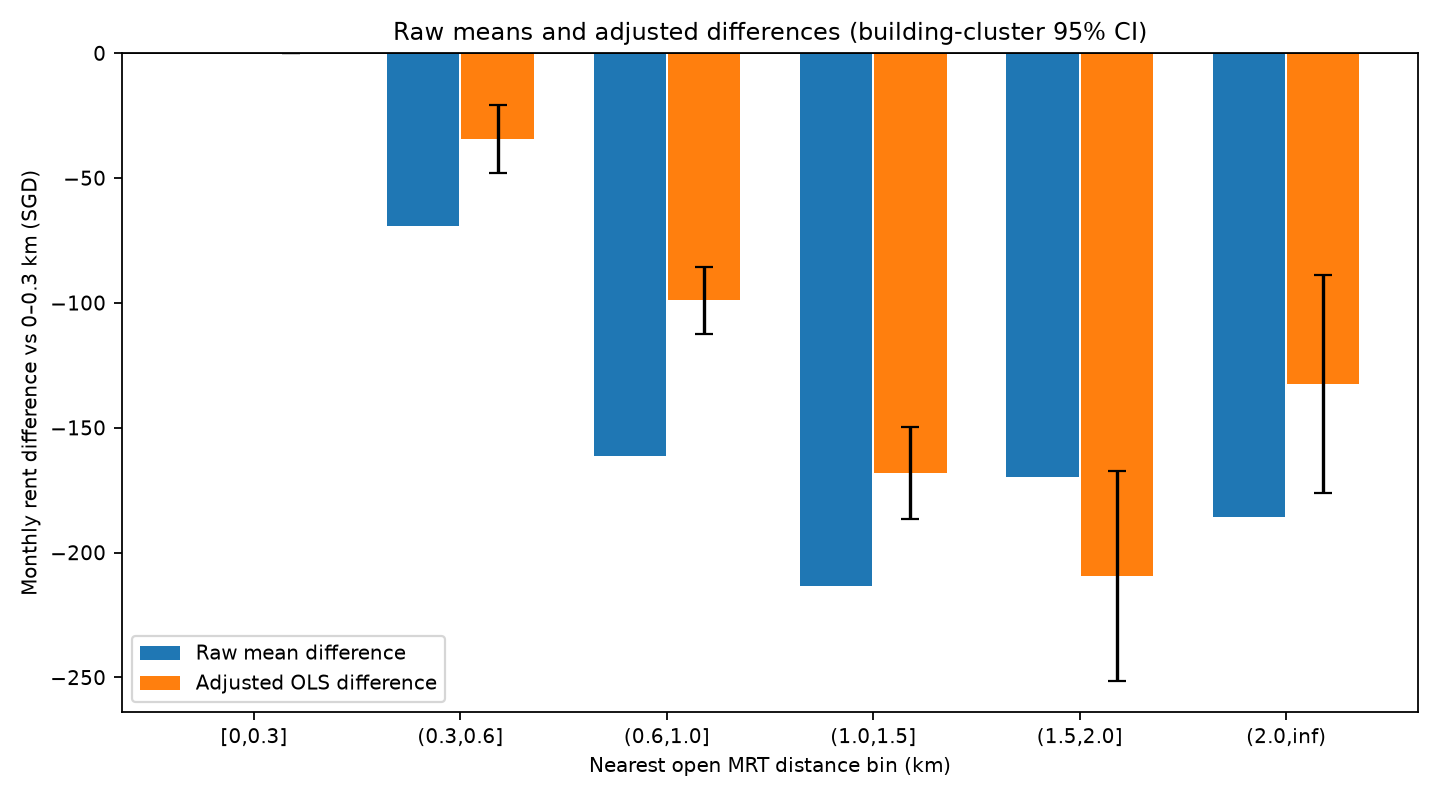
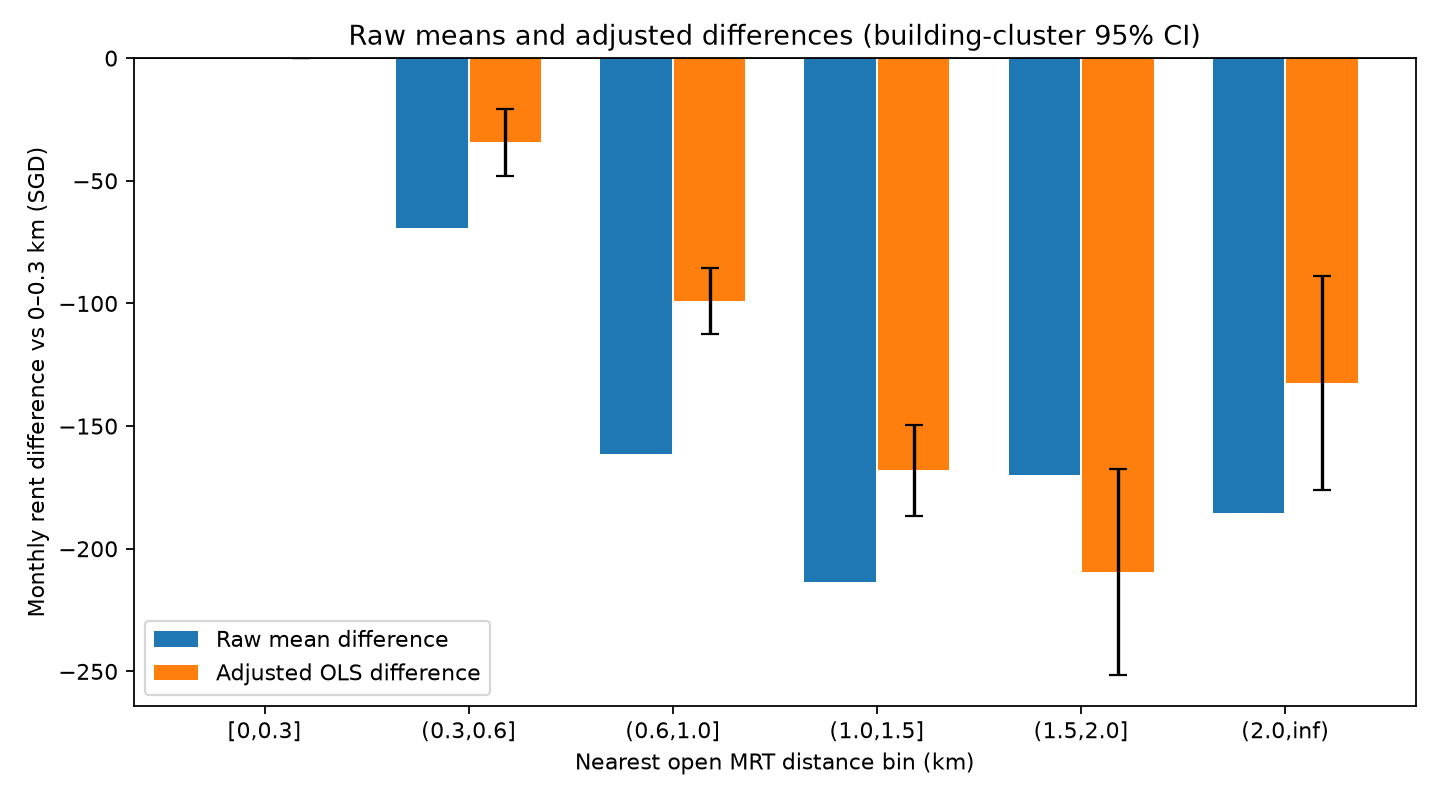
Sync spatial report labels

diff --git a/reports/spatial_features/mrt_adjusted/MRT_adjusted_summary_zh.md b/reports/spatial_features/mrt_adjusted/MRT_adjusted_summary_zh.md
@@ -21,8 +21,8 @@ OLS 控制精确“日历月份 × 规范化户型”交互固定效应和 town 
 
 | contrast | adjusted_difference | cluster_se | ci_low | ci_high | adjusted_with_cbd | cbd_cluster_se | cbd_ci_low | cbd_ci_high |
 | --- | --- | --- | --- | --- | --- | --- | --- | --- |
-| (1.5,2.0] minus 1–1.5 km | -41.33 | 21.35 | -83.18 | 0.52 | -55.59 | 21.18 | -97.12 | -14.07 |
-| (2.0,inf) minus 1–1.5 km | 35.70 | 22.35 | -8.11 | 79.51 | 36.24 | 25.59 | -13.91 | 86.40 |
+| (1.5,2.0] minus (1.0,1.5] km | -41.33 | 21.35 | -83.18 | 0.52 | -55.59 | 21.18 | -97.12 | -14.07 |
+| (2.0,inf) minus (1.0,1.5] km | 35.70 | 22.35 | -8.11 | 79.51 | 36.24 | 25.59 | -13.91 | 86.40 |
 
 设施使用当前 open MRT 快照及球面直线距离，不能当成交易当月站点开放历史或步行距离。本模型结果依赖控制项、函数形式和组内共同支持；按 <30 个楼栋标记的稀疏组见 [系数表](mrt_bin_effects.csv)。楼栋数比交易行数更接近独立支持量，计数也不能保证跨 town/户型/月份存在充分重叠。调整关联不能解释为 MRT 对租金的因果影响，亦不代表预测增益。楼栋聚类纠正重复记录不确定性，但不会修正遗漏混杂。
 
